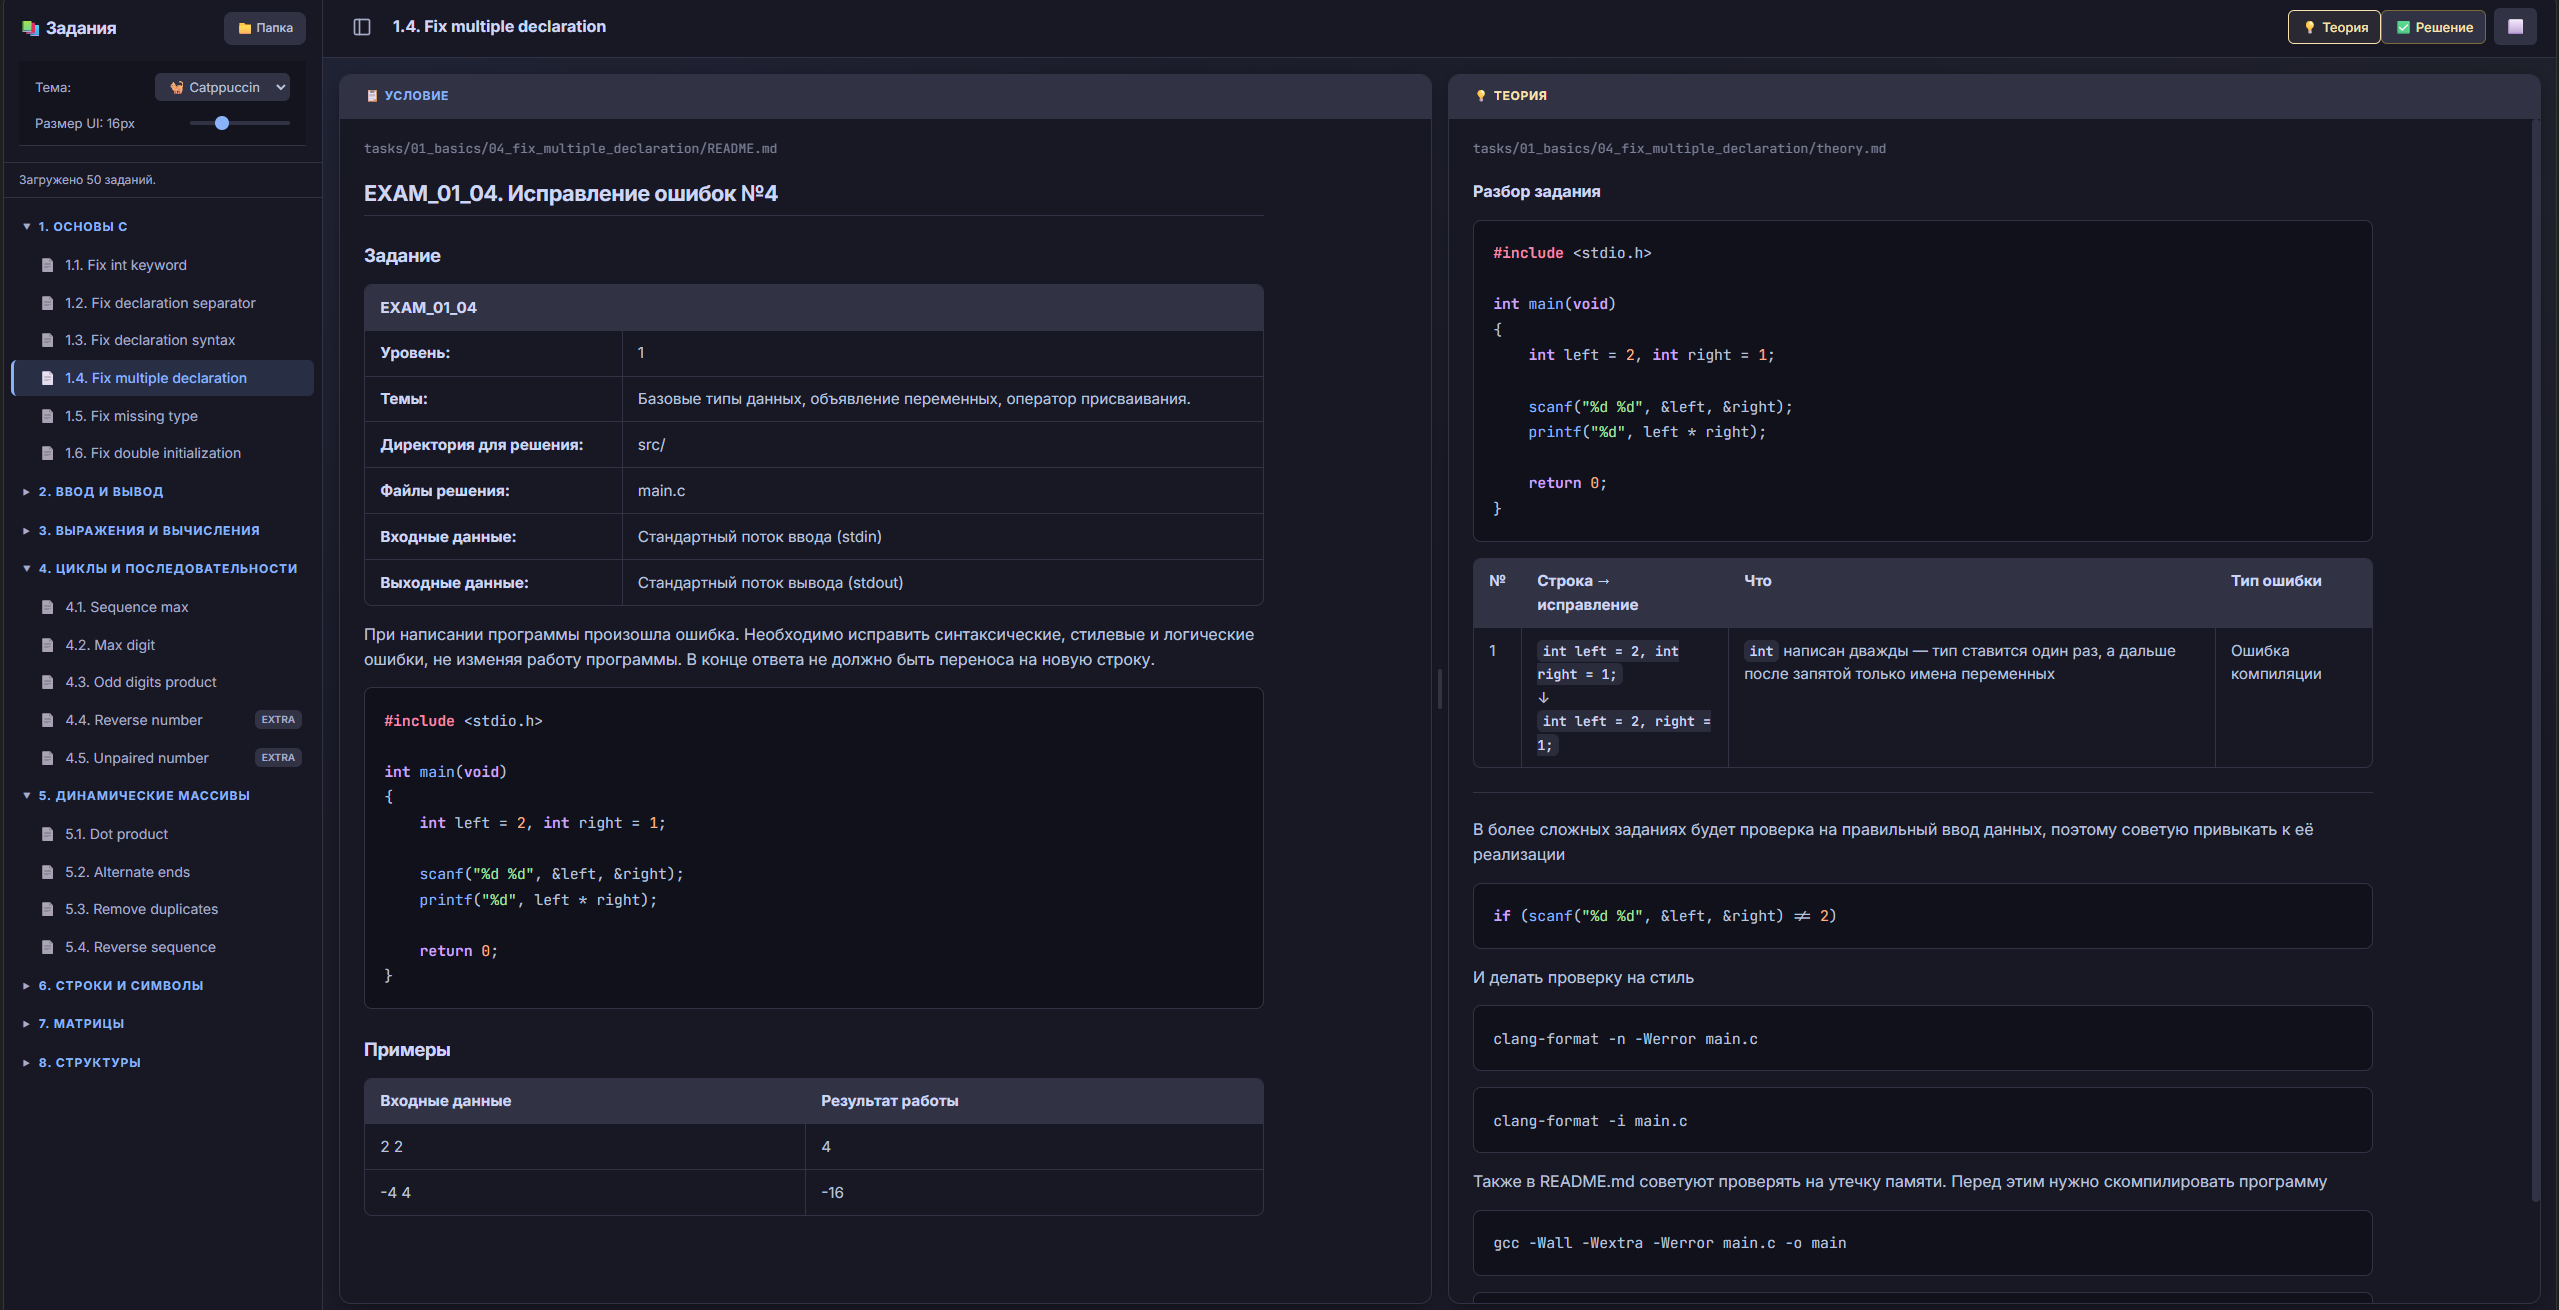
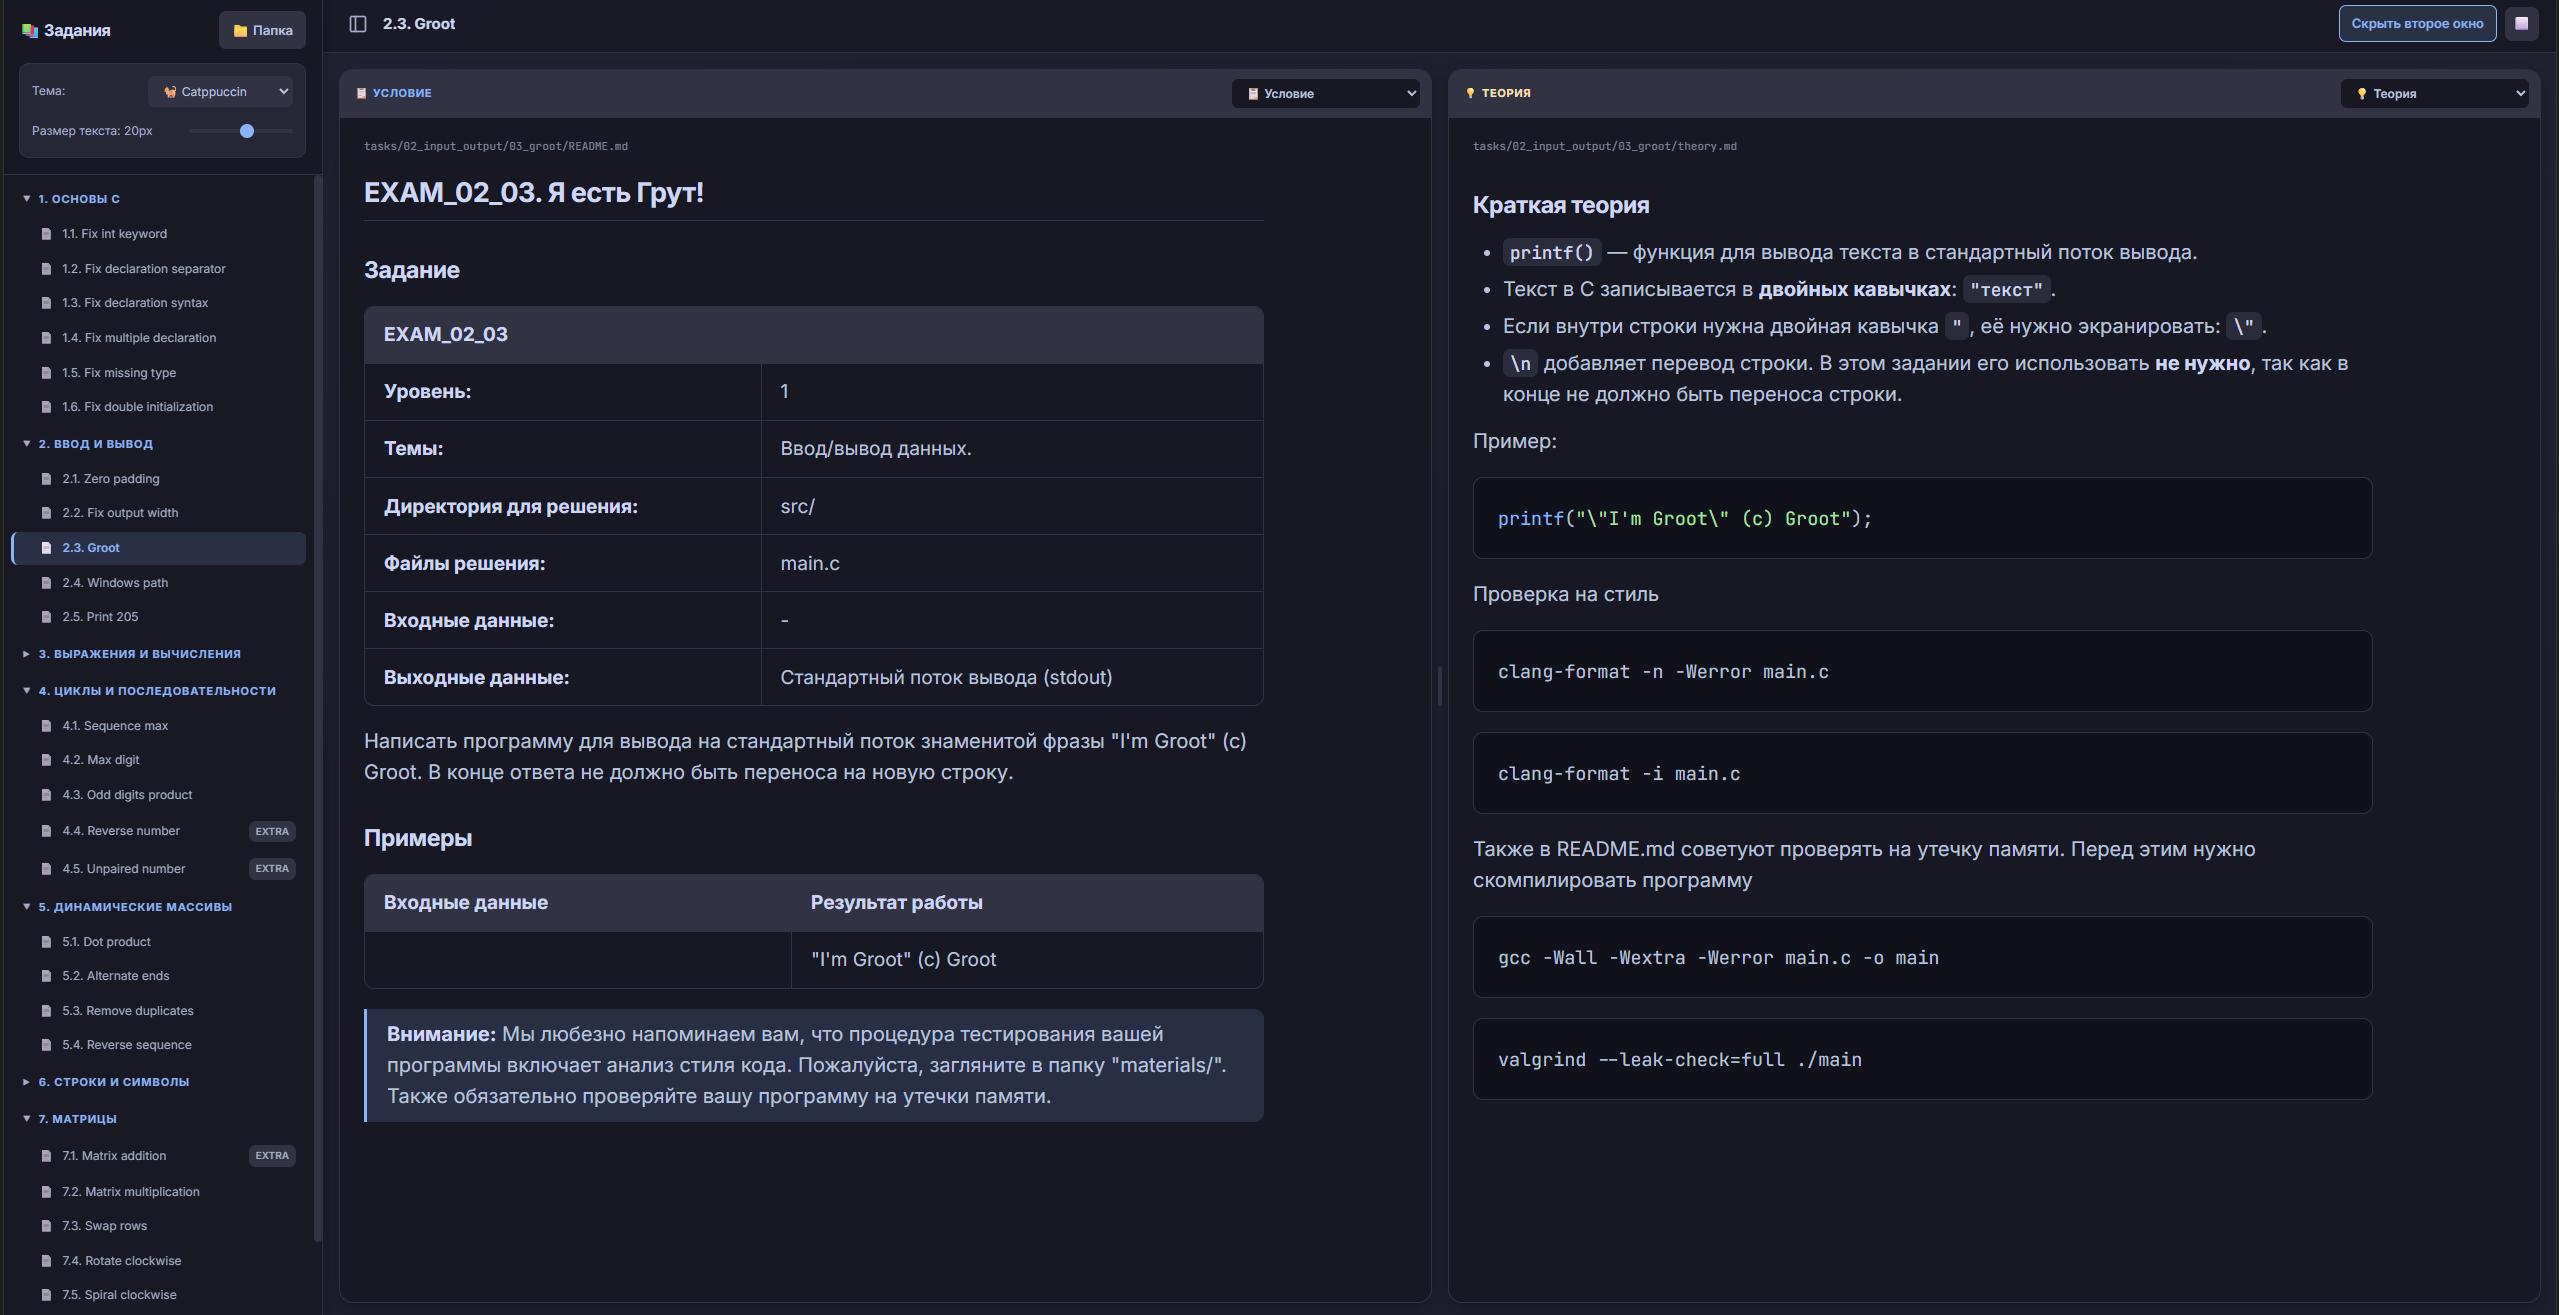
0.9.2 png

diff --git a/preview.html b/preview.html
@@ -1,5 +1,5 @@
 <!DOCTYPE html>
-<html lang="ru" data-theme="gruvbox">
+<html lang="ru" data-theme="Catppuccin">
 <head>
     <meta charset="UTF-8">
     <meta name="viewport" content="width=device-width, initial-scale=1">
